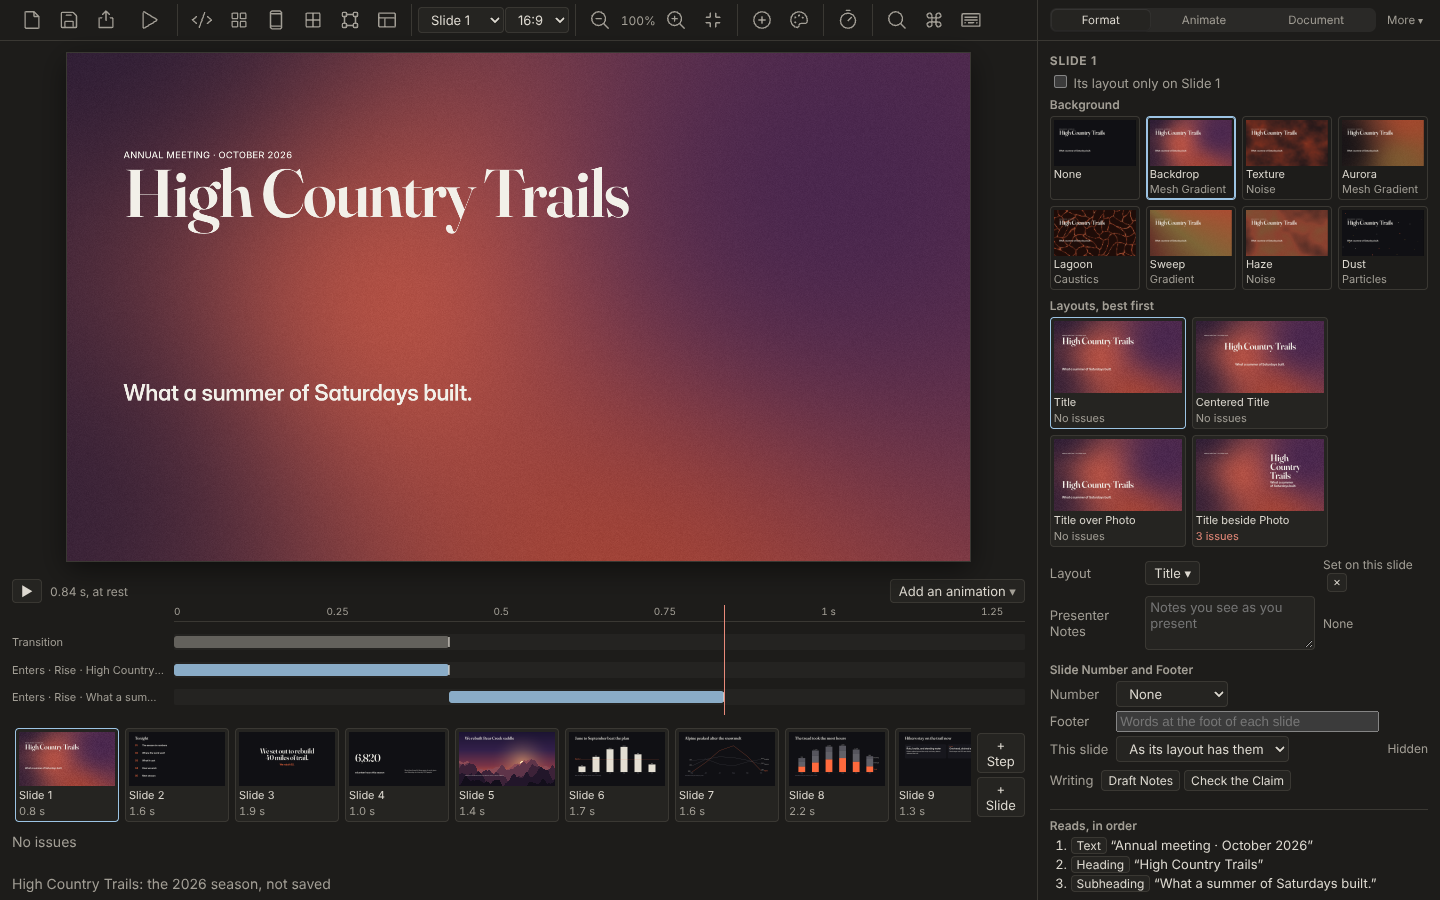
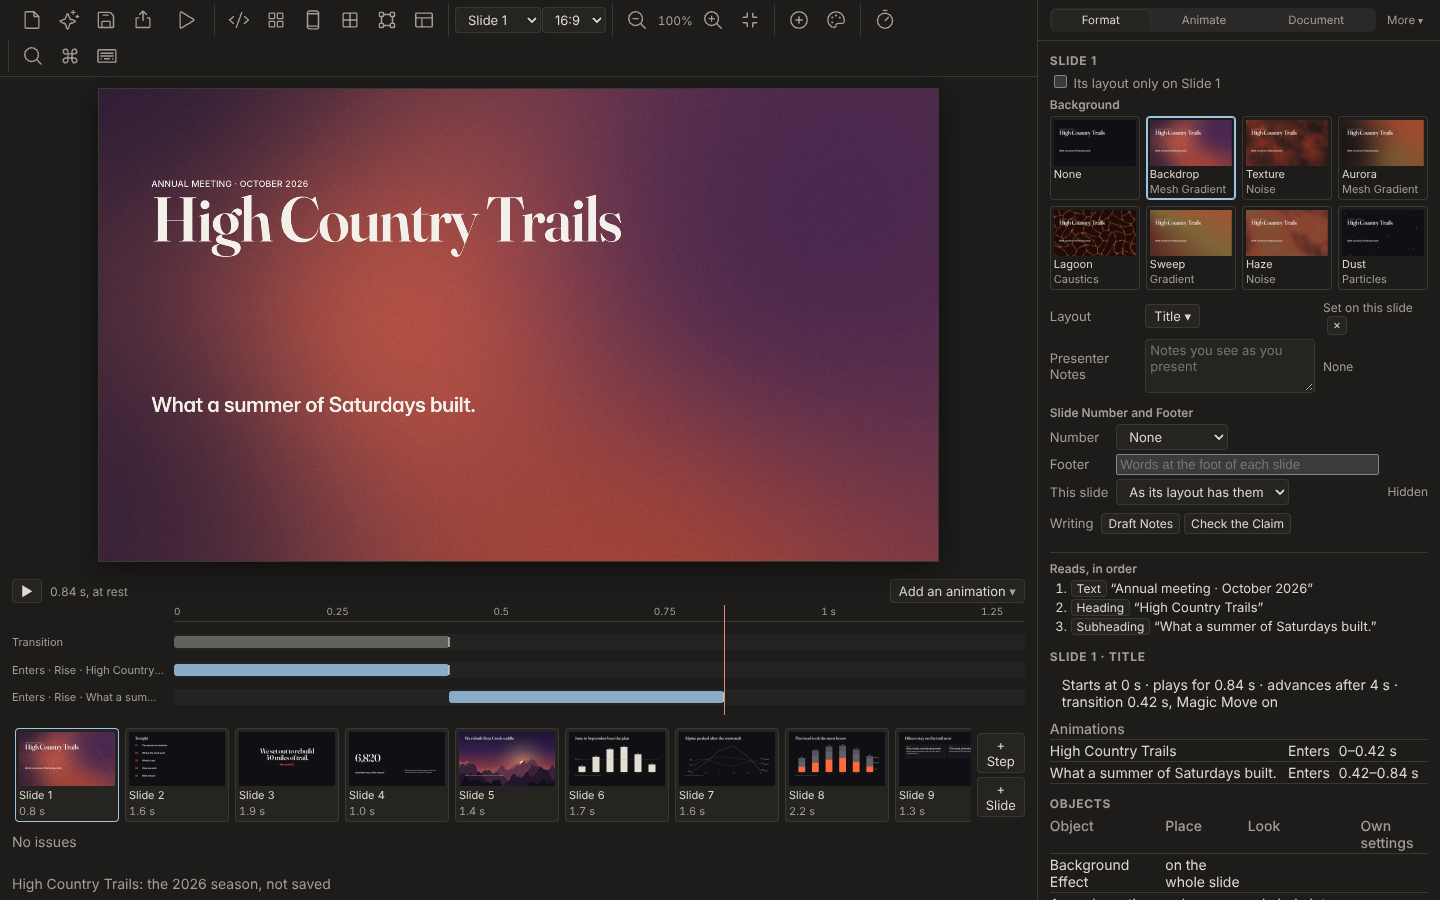
Retake the toolbar's after-shots at eb099246, From a prompt… on the bar

diff --git a/README.md b/README.md
@@ -1,3 +1,3 @@
 # The editor toolbar (C ATTR-5): before and after
 
-The editor on the trails example at 1440 and 1280 px wide: the top 260 px, and the whole window (`-full`). Before is main at 3d753e5a; after is wip/c-attr-5-icon-toolbar at 6aed14c3.
+The editor on the trails example at 1440 and 1280 px wide: the top 260 px, and the whole window (`-full`). Before is main at 3d753e5a; after is wip/c-attr-5-icon-toolbar at eb099246, From a prompt… on the bar.
